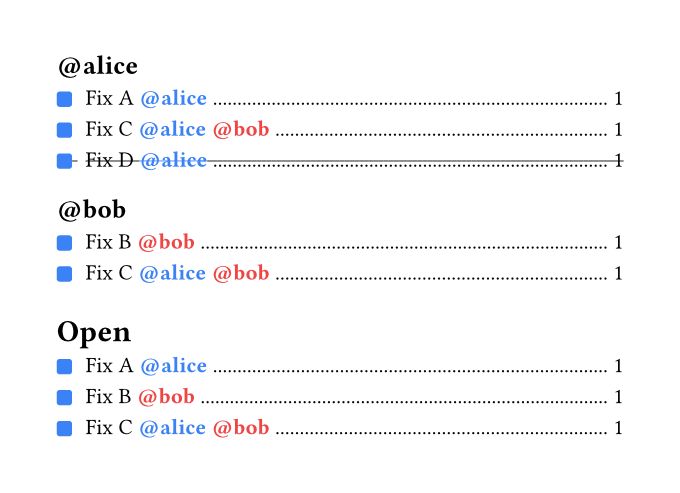
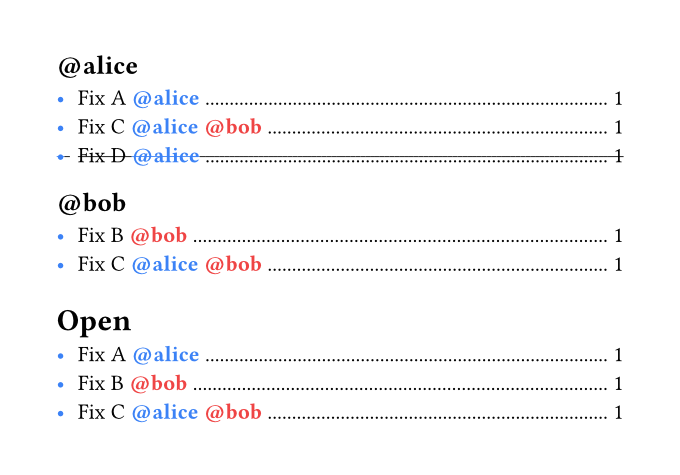
Keep paragraphs intact around margin TODOs; use kind symbols in list (v0.2.1) (#2)
* Keep paragraphs intact around margin TODOs; use kind symbols in list

A `#todo[...]` written mid-paragraph no longer splits the paragraph in
two. `render-margin` now wraps `place` in a `box`, anchoring the note as
an inline zero-size element on the line it was written on. `dx` is
recomputed from the cursor's page-x because the box (not the column)
becomes the parent of `place`.

`todo-list` swaps the colored swatch box for the kind prefix (`•`/`!`/`?`)
so the list markers match the symbols documented in README.

Snapshots for `margin-default` and `list-grouped` regenerated.

* Bump to v0.2.1

---------

Changed region(s): [[0.0618, 0.1179, 0.9265, 0.3537], [0.0618, 0.6484, 0.8956, 0.9137], [0.0618, 0.3832, 0.8956, 0.5895]]

diff --git a/README.md b/README.md
@@ -26,13 +26,13 @@ Ergonomic TODO annotations for Typst, with auto-colored assignees and inline @me
 then import it with the `@local` namespace:
 
 ```typst
-#import "@local/todone:0.2.0": *
+#import "@local/todone:0.2.1": *
 ```
 
 ## Quick start
 
 ```typst
-#import "@local/todone:0.2.0": *
+#import "@local/todone:0.2.1": *
 
 = My document
 